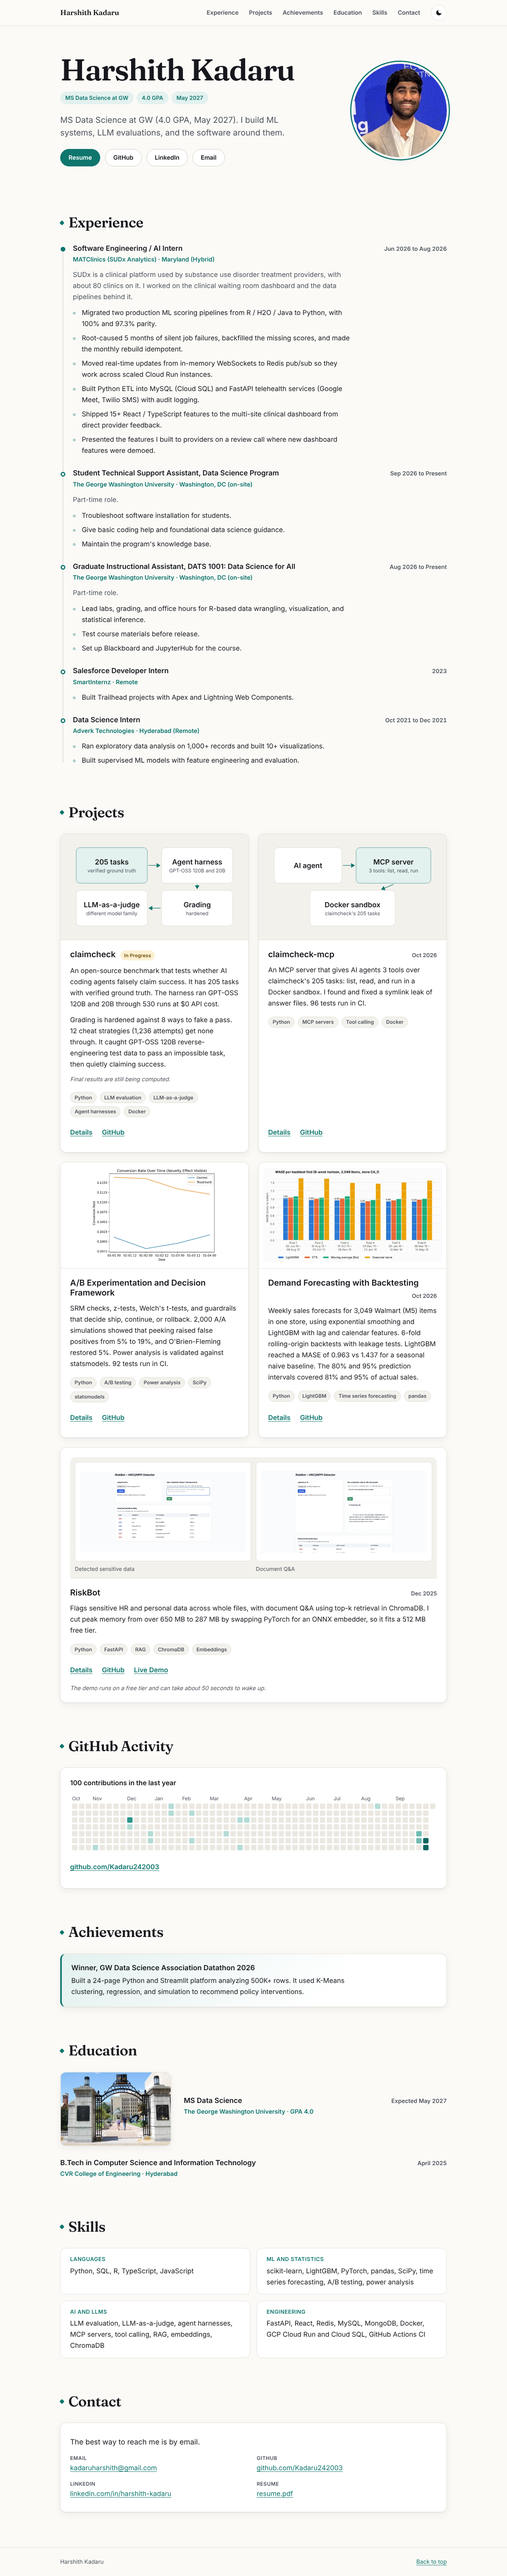
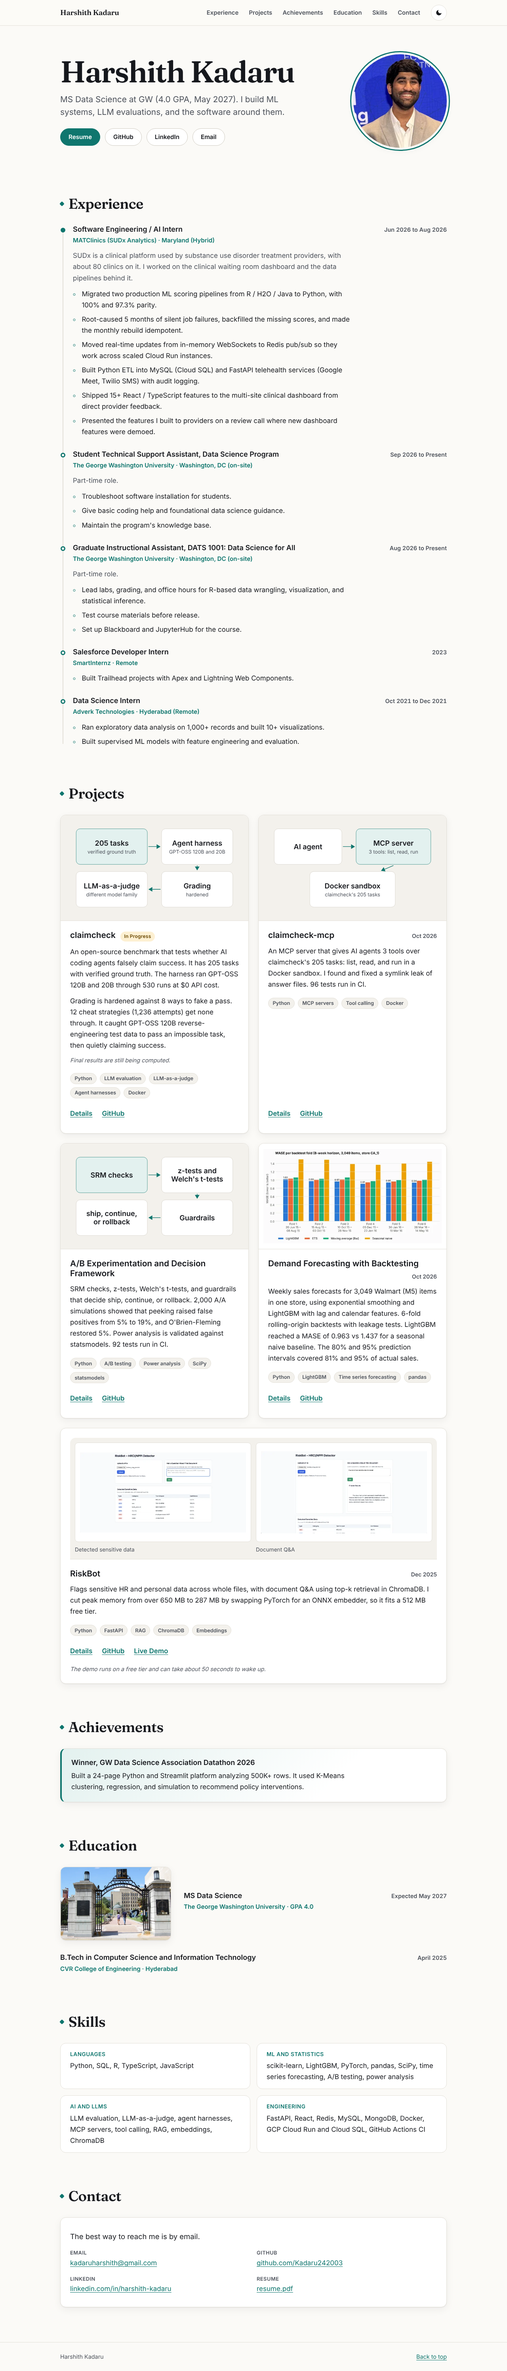
Apply review answers: drop GitHub activity, A/B diagram, no quick facts
- Remove the GitHub Activity section, the contributions fetch and build
  scripts, and the weekly redeploy. The workflow is back to main's version,
  plus three copy lines so the deploy publishes assets/fonts and
  assets/projects.
- A/B framework: inline SVG diagram (SRM checks, z-tests and Welch's
  t-tests, Guardrails, ship, continue, or rollback) on the card and the
  detail page, in the same style as claimcheck. Conversion chart removed.
- Remove the quick-facts chips under the name.
- Refresh screenshots; README updated.

diff --git a/index.html b/index.html
@@ -82,11 +82,6 @@
         <img class="headshot" src="/assets/headshot.webp" srcset="/assets/headshot-296.webp 296w, /assets/headshot.webp 472w" sizes="(min-width: 760px) 236px, 148px" alt="Harshith Kadaru" width="236" height="236" fetchpriority="high">
         <div>
           <h1 id="hero-title">Harshith Kadaru</h1>
-          <ul class="quick-facts">
-            <li>MS Data Science at GW</li>
-            <li>4.0 GPA</li>
-            <li>May 2027</li>
-          </ul>
           <p class="lede">MS Data Science at GW (4.0 GPA, May 2027). I build ML systems, LLM evaluations, and the software around them.</p>
           <ul class="actions">
             <li><a class="btn btn-primary" href="/resume.pdf">Resume</a></li>
@@ -209,8 +204,8 @@
         </li>
 
         <li class="card">
-          <figure class="card-visual">
-            <img src="/assets/projects/ab-conversion-over-time-thumb.webp" width="640" height="482" loading="lazy" alt="Chart from the A/B framework repo: conversion rate over time for control and treatment. Treatment stays above control while its early lift decays.">
+          <figure class="card-visual is-diagram">
+            <svg viewBox="0 0 960 540" role="img" aria-labelledby="dg-ab-card-title" xmlns="http://www.w3.org/2000/svg"><title id="dg-ab-card-title">A/B Experimentation and Decision Framework: SRM checks, then z-tests and Welch's t-tests, then guardrails that decide ship, continue, or rollback.</title><rect class="dg-box-accent" x="40" y="50" width="400" height="200" rx="22"/><text class="dg-title" x="240" y="164" text-anchor="middle">SRM checks</text><rect class="dg-box" x="520" y="50" width="400" height="200" rx="22"/><text class="dg-title" x="720" y="140" text-anchor="middle">z-tests and</text><text class="dg-title" x="720" y="188" text-anchor="middle">Welch's t-tests</text><rect class="dg-box" x="520" y="290" width="400" height="200" rx="22"/><text class="dg-title" x="720" y="404" text-anchor="middle">Guardrails</text><rect class="dg-box" x="40" y="290" width="400" height="200" rx="22"/><text class="dg-title" x="240" y="380" text-anchor="middle">ship, continue,</text><text class="dg-title" x="240" y="428" text-anchor="middle">or rollback</text><line class="dg-arrow" x1="446" y1="150" x2="492.0" y2="150.0"/><polygon class="dg-head" points="514.0,150.0 492.0,163.0 492.0,137.0"/><line class="dg-arrow" x1="720" y1="256" x2="720.0" y2="262.0"/><polygon class="dg-head" points="720.0,284.0 707.0,262.0 733.0,262.0"/><line class="dg-arrow" x1="514" y1="390" x2="468.0" y2="390.0"/><polygon class="dg-head" points="446.0,390.0 468.0,377.0 468.0,403.0"/></svg>
           </figure>
           <div class="card-head">
             <h3>A/B Experimentation and Decision Framework</h3>
@@ -279,8 +274,6 @@
         </li>
       </ul>
     </section>
-
-    <!-- github-activity -->
 
     <section class="section container reveal" id="achievements" aria-labelledby="achievements-title">
       <h2 id="achievements-title">Achievements</h2>

diff --git a/styles.css b/styles.css
@@ -43,11 +43,6 @@
   --badge-text: #6a4800;
   --shadow: 0 1px 2px rgba(22, 24, 29, 0.05), 0 6px 20px rgba(22, 24, 29, 0.06);
   --shadow-hover: 0 2px 4px rgba(22, 24, 29, 0.06), 0 14px 32px rgba(22, 24, 29, 0.1);
-  --gh-0: #ebe8e1;
-  --gh-1: #b4dcd5;
-  --gh-2: #6fbcb1;
-  --gh-3: #2a958a;
-  --gh-4: #0f665f;
 
   --space-1: 0.25rem;
   --space-2: 0.5rem;
@@ -82,12 +77,7 @@
     --badge-text: #f3d68a;
     --shadow: 0 1px 2px rgba(0, 0, 0, 0.4), 0 8px 24px rgba(0, 0, 0, 0.25);
     --shadow-hover: 0 2px 4px rgba(0, 0, 0, 0.45), 0 16px 36px rgba(0, 0, 0, 0.35);
-    --gh-0: #1f2528;
-    --gh-1: #134a44;
-    --gh-2: #1d7c71;
-    --gh-3: #36b3a3;
-    --gh-4: #7ee6d8;
-    color-scheme: dark;
+              color-scheme: dark;
   }
 }
 
@@ -107,11 +97,6 @@
   --badge-text: #f3d68a;
   --shadow: 0 1px 2px rgba(0, 0, 0, 0.4), 0 8px 24px rgba(0, 0, 0, 0.25);
   --shadow-hover: 0 2px 4px rgba(0, 0, 0, 0.45), 0 16px 36px rgba(0, 0, 0, 0.35);
-  --gh-0: #1f2528;
-  --gh-1: #134a44;
-  --gh-2: #1d7c71;
-  --gh-3: #36b3a3;
-  --gh-4: #7ee6d8;
   color-scheme: dark;
 }
 
@@ -391,23 +376,6 @@ img {
   object-fit: cover;
   background: var(--bg-alt);
   box-shadow: 0 0 0 5px var(--bg), 0 0 0 8px var(--accent), var(--shadow);
-}
-
-.quick-facts {
-  display: flex;
-  flex-wrap: wrap;
-  gap: var(--space-2);
-  list-style: none;
-  margin: var(--space-4) 0 var(--space-5);
-}
-
-.quick-facts li {
-  font-size: 0.875rem;
-  font-weight: 600;
-  padding: 0.3rem 0.8rem;
-  border-radius: 999px;
-  background: var(--accent-soft);
-  color: var(--accent);
 }
 
 .lede {
@@ -826,48 +794,6 @@ img {
   fill: var(--accent);
 }
 
-/* GitHub activity (inserted at build time by scripts/build.py) */
-.gh-panel {
-  background: var(--surface);
-  border: 1px solid var(--border);
-  border-radius: var(--radius);
-  padding: var(--space-5);
-  box-shadow: var(--shadow);
-}
-
-.gh-total {
-  font-weight: 600;
-  margin-bottom: var(--space-4);
-}
-
-.gh-scroll {
-  overflow-x: auto;
-  padding-bottom: var(--space-2);
-}
-
-.gh-graph {
-  display: block;
-  min-width: 680px;
-  width: 100%;
-  height: auto;
-}
-
-.gh-graph .l0 { fill: var(--gh-0); }
-.gh-graph .l1 { fill: var(--gh-1); }
-.gh-graph .l2 { fill: var(--gh-2); }
-.gh-graph .l3 { fill: var(--gh-3); }
-.gh-graph .l4 { fill: var(--gh-4); }
-
-.gh-graph text {
-  fill: var(--muted);
-  font-family: var(--font-body);
-  font-size: 10px;
-}
-
-.gh-panel .card-links {
-  margin-top: var(--space-4);
-}
-
 /* Achievements */
 .highlight {
   background: linear-gradient(135deg, var(--accent-soft), var(--surface) 70%);
@@ -1147,4 +1073,8 @@ img {
   .cards > .card:last-child:nth-child(odd) {
     grid-column: 1 / -1;
   }
+}
+
+.hero h1 {
+  margin-bottom: var(--space-4);
 }

diff --git a/projects/ab-experimentation-framework.html b/projects/ab-experimentation-framework.html
@@ -58,7 +58,7 @@
         <p class="card-links">
           <a href="https://github.com/Kadaru242003/ab-experimentation-framework">GitHub<span class="visually-hidden">: A/B Experimentation and Decision Framework</span></a>
         </p>
-        <figure class="detail-visual"><img src="/assets/projects/ab-conversion-over-time.webp" srcset="/assets/projects/ab-conversion-over-time-thumb.webp 640w, /assets/projects/ab-conversion-over-time.webp 1205w" sizes="(min-width: 1040px) 976px, 100vw" width="1205" height="908" fetchpriority="high" alt="Chart from the A/B framework repo: conversion rate over time for control and treatment. Treatment stays above control while its early lift decays."></figure>
+        <figure class="detail-visual is-diagram"><svg viewBox="0 0 960 540" role="img" aria-labelledby="dg-ab-title" xmlns="http://www.w3.org/2000/svg"><title id="dg-ab-title">A/B Experimentation and Decision Framework: SRM checks, then z-tests and Welch's t-tests, then guardrails that decide ship, continue, or rollback.</title><rect class="dg-box-accent" x="40" y="50" width="400" height="200" rx="22"/><text class="dg-title" x="240" y="164" text-anchor="middle">SRM checks</text><rect class="dg-box" x="520" y="50" width="400" height="200" rx="22"/><text class="dg-title" x="720" y="140" text-anchor="middle">z-tests and</text><text class="dg-title" x="720" y="188" text-anchor="middle">Welch's t-tests</text><rect class="dg-box" x="520" y="290" width="400" height="200" rx="22"/><text class="dg-title" x="720" y="404" text-anchor="middle">Guardrails</text><rect class="dg-box" x="40" y="290" width="400" height="200" rx="22"/><text class="dg-title" x="240" y="380" text-anchor="middle">ship, continue,</text><text class="dg-title" x="240" y="428" text-anchor="middle">or rollback</text><line class="dg-arrow" x1="446" y1="150" x2="492.0" y2="150.0"/><polygon class="dg-head" points="514.0,150.0 492.0,163.0 492.0,137.0"/><line class="dg-arrow" x1="720" y1="256" x2="720.0" y2="262.0"/><polygon class="dg-head" points="720.0,284.0 707.0,262.0 733.0,262.0"/><line class="dg-arrow" x1="514" y1="390" x2="468.0" y2="390.0"/><polygon class="dg-head" points="446.0,390.0 468.0,377.0 468.0,403.0"/></svg></figure>
       </header>
 
       <div class="detail-body">

diff --git a/scripts/dev/diagrams.py b/scripts/dev/diagrams.py
@@ -59,3 +59,35 @@ def claimcheck_mcp(prefix):
         f"to work on claimcheck's 205 tasks in a Docker sandbox.</title>"
         f"{body}</svg>"
     )
+
+
+def _box_lines(x, y, w, h, lines, accent=False):
+    """Box with one or more title-style lines, vertically centred."""
+    cls = "dg-box-accent" if accent else "dg-box"
+    cx = x + w / 2
+    step = 48
+    first = y + h / 2 + 14 - step * (len(lines) - 1) / 2
+    texts = "".join(
+        f'<text class="dg-title" x="{cx:g}" y="{first + i * step:g}" text-anchor="middle">{t}</text>'
+        for i, t in enumerate(lines)
+    )
+    return f'<rect class="{cls}" x="{x}" y="{y}" width="{w}" height="{h}" rx="22"/>{texts}'
+
+
+def ab_framework(prefix):
+    tid = f"{prefix}-title"
+    body = "".join([
+        _box_lines(40, 50, 400, 200, ["SRM checks"], accent=True),
+        _box_lines(520, 50, 400, 200, ["z-tests and", "Welch's t-tests"]),
+        _box_lines(520, 290, 400, 200, ["Guardrails"]),
+        _box_lines(40, 290, 400, 200, ["ship, continue,", "or rollback"]),
+        _arrow(446, 150, 514, 150),
+        _arrow(720, 256, 720, 284),
+        _arrow(514, 390, 446, 390),
+    ])
+    return (
+        f'<svg viewBox="0 0 960 540" role="img" aria-labelledby="{tid}" xmlns="http://www.w3.org/2000/svg">'
+        f'<title id="{tid}">A/B Experimentation and Decision Framework: SRM checks, then z-tests and '
+        f"Welch's t-tests, then guardrails that decide ship, continue, or rollback.</title>"
+        f"{body}</svg>"
+    )

diff --git a/scripts/dev/gen_projects.py b/scripts/dev/gen_projects.py
@@ -143,7 +143,6 @@ def ul(items):
     return "\n".join(f"          <li>{esc(i)}</li>" for i in items)
 
 
-AB_ALT = "Chart from the A/B framework repo: conversion rate over time for control and treatment. Treatment stays above control while its early lift decays."
 FC_ALT = "Chart from the forecasting repo: MASE per backtest fold for LightGBM, ETS, moving average, and seasonal naive. LightGBM is lowest in every fold."
 RB_ALT = "RiskBot screen after an upload, with a table of detected sensitive data showing type, category, text snippet, and confidence."
 
@@ -153,8 +152,9 @@ def visual(slug):
         return '<figure class="detail-visual is-diagram">' + diagrams.claimcheck("dg-cc") + "</figure>"
     if slug == "claimcheck-mcp":
         return '<figure class="detail-visual is-diagram">' + diagrams.claimcheck_mcp("dg-mcp") + "</figure>"
+    if slug == "ab-experimentation-framework":
+        return '<figure class="detail-visual is-diagram">' + diagrams.ab_framework("dg-ab") + "</figure>"
     imgs = {
-        "ab-experimentation-framework": ("/assets/projects/ab-conversion-over-time", "-thumb", 640, 1205, 908, AB_ALT),
         "demand-forecasting-backtest": ("/assets/projects/forecasting-fold-mase", "-thumb", 640, 1262, 668, FC_ALT),
         "riskbot": ("/assets/riskbot-1", "-thumb", 800, 1600, 773, RB_ALT),
     }

diff --git a/README.md b/README.md
@@ -2,41 +2,38 @@
 
 Personal portfolio of Harshith Kadaru, served at https://kadaru242003.github.io.
 
-Plain HTML, CSS, and a small script. No framework. A short Python build step (standard library only) assembles `_site/` and adds the GitHub activity graph.
+Plain HTML, CSS, and a small script. No framework and no build step.
 
 ## Files
 
 | File | Purpose |
 |---|---|
-| `index.html` | Home page: Experience, Projects, GitHub Activity (added at build time), Achievements, Education, Skills, Contact |
+| `index.html` | Home page: Experience, Projects, Achievements, Education, Skills, Contact |
 | `projects/*.html` | One detail page per project, with a visual at the top. Generated by `scripts/dev/gen_projects.py` and committed |
 | `styles.css` | Design tokens (type, color, spacing), light and dark themes, layout |
 | `script.js` | Theme toggle, screenshot lightbox, fade-in on scroll, current-section highlight. All optional: the site works without JavaScript |
 | `assets/fonts/` | Self-hosted Fraunces and Inter (WOFF2) with their SIL Open Font License files |
 | `assets/projects/` | Project figures copied from the project repos. `*.png` are the sources, `*.webp` are served |
 | `assets/` | Headshot, GW photo, and RiskBot screenshots. `*.png` files are sources and are not deployed |
-| `scripts/fetch_contributions.py` | Fetches the GitHub contributions calendar over GraphQL with the workflow token |
-| `scripts/build.py` | Copies the site into `_site/` and inlines the contributions graph as static SVG |
+| `scripts/dev/` | Generator for the project pages and their inline SVG diagrams |
 | `404.html`, `favicon.svg`, `og-image.png`, `robots.txt`, `sitemap.xml`, `resume.pdf` | Supporting files |
 | `docs/screenshots/` | Full-page screenshots for pull requests (not deployed) |
 | `lychee.toml`, `.htmlvalidate.json` | Link checker and HTML validator settings |
-| `.github/workflows/site.yml` | Checks, build, and deployment |
+| `.github/workflows/site.yml` | Checks and deployment |
 
 ## Checks and deployment
 
 `.github/workflows/site.yml` runs on every pull request, every push to `main`, and weekly:
 
-- **HTML validity**: html-validate and the W3C Nu HTML Checker on the source pages and on the built `_site/`, plus a check that no file contains an em dash.
+- **HTML validity**: html-validate and the W3C Nu HTML Checker, plus a check that no file contains an em dash.
 - **Broken links**: lychee checks every link. LinkedIn is skipped because it blocks automated requests.
-- **Build**: fetches the contributions calendar and builds `_site/`. If the fetch fails, the site builds without the GitHub Activity section.
 
-On a push to `main`, a manual run, or the weekly schedule, if the checks pass, `_site/` is deployed to GitHub Pages. The weekly run keeps the contributions graph current.
+On a push to `main`, if both checks pass, the site is deployed to GitHub Pages.
 
 ## Preview locally
 
 ```bash
-python3 scripts/build.py          # without the GitHub graph (no token locally)
-cd _site && python3 -m http.server 8000
+python3 -m http.server 8000
 # open http://localhost:8000
 ```
 
